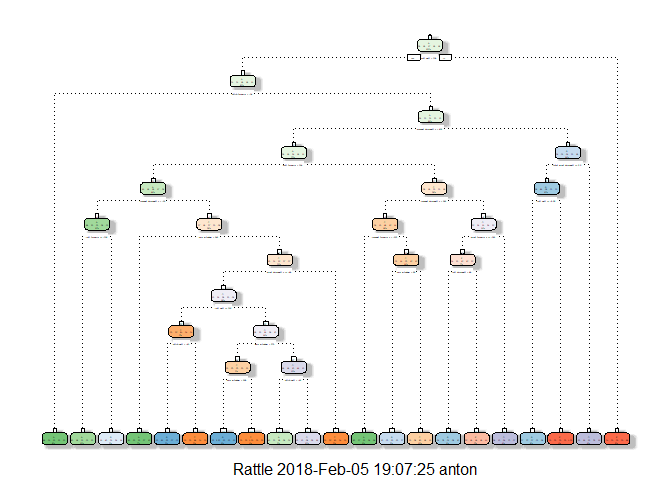
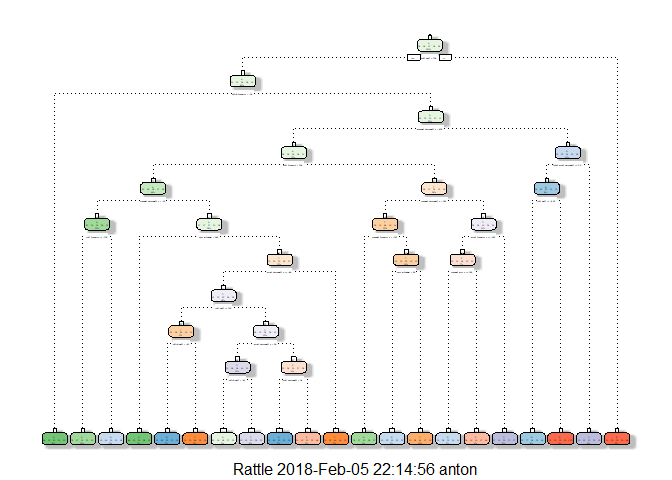
Final commit

diff --git a/ModelingAssignment.html b/ModelingAssignment.html
@@ -219,7 +219,7 @@ validateSet  &lt;- finalDataTrain[-inTrain, ]</code></pre>
 <pre class="r"><code>set.seed(12345)
 decisionTree &lt;- rpart(classe ~ ., data=trainSet, method=&quot;class&quot;)
 fancyRpartPlot(decisionTree)</code></pre>
[2 lines of base64/hex data omitted]
 <p>We then attempt to predict the outcomes on the validation set. The resulting confusion matrix shows the predictions, as well as the accuracy.</p>
 <pre class="r"><code>predictionTree &lt;- predict(decisionTree, validateSet, type = &quot;class&quot;)
 confusionMatrix(predictionTree, validateSet$classe)</code></pre>
@@ -227,34 +227,34 @@ confusionMatrix(predictionTree, validateSet$classe)</code></pre>
 ## 
 ##           Reference
 ## Prediction    A    B    C    D    E
-##          A 1477  204   34   58   53
-##          B   60  641   34   66   97
-##          C   20   66  830  145   92
-##          D   95  150   57  639  127
-##          E   22   78   71   56  713
+##          A 1483  195   39   56   57
+##          B   62  700   85   93  124
+##          C   19   78  769  149   86
+##          D   92  107  107  562   49
+##          E   18   59   26  104  766
 ## 
 ## Overall Statistics
-##                                          
-##                Accuracy : 0.7307         
-##                  95% CI : (0.7191, 0.742)
-##     No Information Rate : 0.2845         
-##     P-Value [Acc &gt; NIR] : &lt; 2.2e-16      
-##                                          
-##                   Kappa : 0.6586         
-##  Mcnemar's Test P-Value : &lt; 2.2e-16      
+##                                           
+##                Accuracy : 0.7273          
+##                  95% CI : (0.7157, 0.7386)
+##     No Information Rate : 0.2845          
+##     P-Value [Acc &gt; NIR] : &lt; 2.2e-16       
+##                                           
+##                   Kappa : 0.6539          
+##  Mcnemar's Test P-Value : &lt; 2.2e-16       
 ## 
 ## Statistics by Class:
 ## 
 ##                      Class: A Class: B Class: C Class: D Class: E
-## Sensitivity            0.8823   0.5628   0.8090   0.6629   0.6590
-## Specificity            0.9171   0.9458   0.9335   0.9128   0.9527
-## Pos Pred Value         0.8089   0.7138   0.7199   0.5983   0.7585
-## Neg Pred Value         0.9515   0.9001   0.9586   0.9325   0.9254
+## Sensitivity            0.8859   0.6146   0.7495   0.5830   0.7079
+## Specificity            0.9176   0.9233   0.9317   0.9279   0.9569
+## Pos Pred Value         0.8104   0.6579   0.6985   0.6129   0.7873
+## Neg Pred Value         0.9529   0.9089   0.9463   0.9191   0.9357
 ## Prevalence             0.2845   0.1935   0.1743   0.1638   0.1839
-## Detection Rate         0.2510   0.1089   0.1410   0.1086   0.1212
-## Detection Prevalence   0.3103   0.1526   0.1959   0.1815   0.1597
-## Balanced Accuracy      0.8997   0.7543   0.8712   0.7878   0.8059</code></pre>
-<p>The prediction accuracy is 0.834, which is fairly low, leading to a high out-of-sample error of 16.6%. We move on to the next model.</p>
+## Detection Rate         0.2520   0.1189   0.1307   0.0955   0.1302
+## Detection Prevalence   0.3110   0.1808   0.1871   0.1558   0.1653
+## Balanced Accuracy      0.9017   0.7689   0.8406   0.7554   0.8324</code></pre>
+<p>The prediction accuracy is 0.7307, which is fairly low, leading to a high out-of-sample error of 16.6%. We move on to the next model.</p>
 </div>
 <div id="random-forest" class="section level3">
 <h3>Random Forest</h3>
@@ -266,34 +266,34 @@ confusionMatrix(predictionForest, validateSet$classe)</code></pre>
 ## 
 ##           Reference
 ## Prediction    A    B    C    D    E
-##          A 1673    0    0    0    0
-##          B    0 1139    1    0    0
-##          C    0    0 1024   12    0
-##          D    0    0    1  952    3
-##          E    1    0    0    0 1079
+##          A 1674    3    0    0    0
+##          B    0 1136    3    0    0
+##          C    0    0 1023    4    0
+##          D    0    0    0  960    7
+##          E    0    0    0    0 1075
 ## 
 ## Overall Statistics
 ##                                           
-##                Accuracy : 0.9969          
-##                  95% CI : (0.9952, 0.9982)
+##                Accuracy : 0.9971          
+##                  95% CI : (0.9954, 0.9983)
 ##     No Information Rate : 0.2845          
 ##     P-Value [Acc &gt; NIR] : &lt; 2.2e-16       
 ##                                           
-##                   Kappa : 0.9961          
+##                   Kappa : 0.9963          
 ##  Mcnemar's Test P-Value : NA              
 ## 
 ## Statistics by Class:
 ## 
 ##                      Class: A Class: B Class: C Class: D Class: E
-## Sensitivity            0.9994   1.0000   0.9981   0.9876   0.9972
-## Specificity            1.0000   0.9998   0.9975   0.9992   0.9998
-## Pos Pred Value         1.0000   0.9991   0.9884   0.9958   0.9991
-## Neg Pred Value         0.9998   1.0000   0.9996   0.9976   0.9994
+## Sensitivity            1.0000   0.9974   0.9971   0.9959   0.9935
+## Specificity            0.9993   0.9994   0.9992   0.9986   1.0000
+## Pos Pred Value         0.9982   0.9974   0.9961   0.9928   1.0000
+## Neg Pred Value         1.0000   0.9994   0.9994   0.9992   0.9985
 ## Prevalence             0.2845   0.1935   0.1743   0.1638   0.1839
-## Detection Rate         0.2843   0.1935   0.1740   0.1618   0.1833
-## Detection Prevalence   0.2843   0.1937   0.1760   0.1624   0.1835
-## Balanced Accuracy      0.9997   0.9999   0.9978   0.9934   0.9985</code></pre>
-<p>We can see that the accruacy is 99.8%, which is very high. The out-of-sample error is low at 0.2%. This high level of accuracy does not require us to seek any other model, nor should we create a blend of several models to achieve a higher accuracy percentage.</p>
+## Detection Rate         0.2845   0.1930   0.1738   0.1631   0.1827
+## Detection Prevalence   0.2850   0.1935   0.1745   0.1643   0.1827
+## Balanced Accuracy      0.9996   0.9984   0.9981   0.9972   0.9968</code></pre>
+<p>We can see that the accruacy is 99.7%, which is very high. The out-of-sample error is low at 0.2%. This high level of accuracy does not require us to seek any other model, nor should we create a blend of several models to achieve a higher accuracy percentage.</p>
 </div>
 </div>
 <div id="conclusion" class="section level2">

diff --git a/ModelingAssignment.md b/ModelingAssignment.md
@@ -220,36 +220,36 @@ confusionMatrix(predictionTree, validateSet$classe)
 ## 
 ##           Reference
 ## Prediction    A    B    C    D    E
-##          A 1477  204   34   58   53
-##          B   60  641   34   66   97
-##          C   20   66  830  145   92
-##          D   95  150   57  639  127
-##          E   22   78   71   56  713
+##          A 1483  195   39   56   57
+##          B   62  700   85   93  124
+##          C   19   78  769  149   86
+##          D   92  107  107  562   49
+##          E   18   59   26  104  766
 ## 
 ## Overall Statistics
-##                                          
-##                Accuracy : 0.7307         
-##                  95% CI : (0.7191, 0.742)
-##     No Information Rate : 0.2845         
-##     P-Value [Acc > NIR] : < 2.2e-16      
-##                                          
-##                   Kappa : 0.6586         
-##  Mcnemar's Test P-Value : < 2.2e-16      
+##                                           
+##                Accuracy : 0.7273          
+##                  95% CI : (0.7157, 0.7386)
+##     No Information Rate : 0.2845          
+##     P-Value [Acc > NIR] : < 2.2e-16       
+##                                           
+##                   Kappa : 0.6539          
+##  Mcnemar's Test P-Value : < 2.2e-16       
 ## 
 ## Statistics by Class:
 ## 
 ##                      Class: A Class: B Class: C Class: D Class: E
-## Sensitivity            0.8823   0.5628   0.8090   0.6629   0.6590
-## Specificity            0.9171   0.9458   0.9335   0.9128   0.9527
-## Pos Pred Value         0.8089   0.7138   0.7199   0.5983   0.7585
-## Neg Pred Value         0.9515   0.9001   0.9586   0.9325   0.9254
+## Sensitivity            0.8859   0.6146   0.7495   0.5830   0.7079
+## Specificity            0.9176   0.9233   0.9317   0.9279   0.9569
+## Pos Pred Value         0.8104   0.6579   0.6985   0.6129   0.7873
+## Neg Pred Value         0.9529   0.9089   0.9463   0.9191   0.9357
 ## Prevalence             0.2845   0.1935   0.1743   0.1638   0.1839
-## Detection Rate         0.2510   0.1089   0.1410   0.1086   0.1212
-## Detection Prevalence   0.3103   0.1526   0.1959   0.1815   0.1597
-## Balanced Accuracy      0.8997   0.7543   0.8712   0.7878   0.8059
+## Detection Rate         0.2520   0.1189   0.1307   0.0955   0.1302
+## Detection Prevalence   0.3110   0.1808   0.1871   0.1558   0.1653
+## Balanced Accuracy      0.9017   0.7689   0.8406   0.7554   0.8324
 ```
 
-The prediction accuracy is 0.834, which is fairly low, leading to a high out-of-sample error of 16.6%. We move on to the next model.
+The prediction accuracy is 0.7307, which is fairly low, leading to a high out-of-sample error of 16.6%. We move on to the next model.
 
 
 ### Random Forest
@@ -268,36 +268,36 @@ confusionMatrix(predictionForest, validateSet$classe)
 ## 
 ##           Reference
 ## Prediction    A    B    C    D    E
-##          A 1673    0    0    0    0
-##          B    0 1139    1    0    0
-##          C    0    0 1024   12    0
-##          D    0    0    1  952    3
-##          E    1    0    0    0 1079
+##          A 1674    3    0    0    0
+##          B    0 1136    3    0    0
+##          C    0    0 1023    4    0
+##          D    0    0    0  960    7
+##          E    0    0    0    0 1075
 ## 
 ## Overall Statistics
 ##                                           
-##                Accuracy : 0.9969          
-##                  95% CI : (0.9952, 0.9982)
+##                Accuracy : 0.9971          
+##                  95% CI : (0.9954, 0.9983)
 ##     No Information Rate : 0.2845          
 ##     P-Value [Acc > NIR] : < 2.2e-16       
 ##                                           
-##                   Kappa : 0.9961          
+##                   Kappa : 0.9963          
 ##  Mcnemar's Test P-Value : NA              
 ## 
 ## Statistics by Class:
 ## 
 ##                      Class: A Class: B Class: C Class: D Class: E
-## Sensitivity            0.9994   1.0000   0.9981   0.9876   0.9972
-## Specificity            1.0000   0.9998   0.9975   0.9992   0.9998
-## Pos Pred Value         1.0000   0.9991   0.9884   0.9958   0.9991
-## Neg Pred Value         0.9998   1.0000   0.9996   0.9976   0.9994
+## Sensitivity            1.0000   0.9974   0.9971   0.9959   0.9935
+## Specificity            0.9993   0.9994   0.9992   0.9986   1.0000
+## Pos Pred Value         0.9982   0.9974   0.9961   0.9928   1.0000
+## Neg Pred Value         1.0000   0.9994   0.9994   0.9992   0.9985
 ## Prevalence             0.2845   0.1935   0.1743   0.1638   0.1839
-## Detection Rate         0.2843   0.1935   0.1740   0.1618   0.1833
-## Detection Prevalence   0.2843   0.1937   0.1760   0.1624   0.1835
-## Balanced Accuracy      0.9997   0.9999   0.9978   0.9934   0.9985
+## Detection Rate         0.2845   0.1930   0.1738   0.1631   0.1827
+## Detection Prevalence   0.2850   0.1935   0.1745   0.1643   0.1827
+## Balanced Accuracy      0.9996   0.9984   0.9981   0.9972   0.9968
 ```
 
-We can see that the accruacy is 99.8%, which is very high. The out-of-sample error is low at 0.2%. This high level of accuracy does not require us to seek any other model, nor should we create a blend of several models to achieve a higher accuracy percentage.
+We can see that the accruacy is 99.7%, which is very high. The out-of-sample error is low at 0.2%. This high level of accuracy does not require us to seek any other model, nor should we create a blend of several models to achieve a higher accuracy percentage.
 
 ## Conclusion
 
